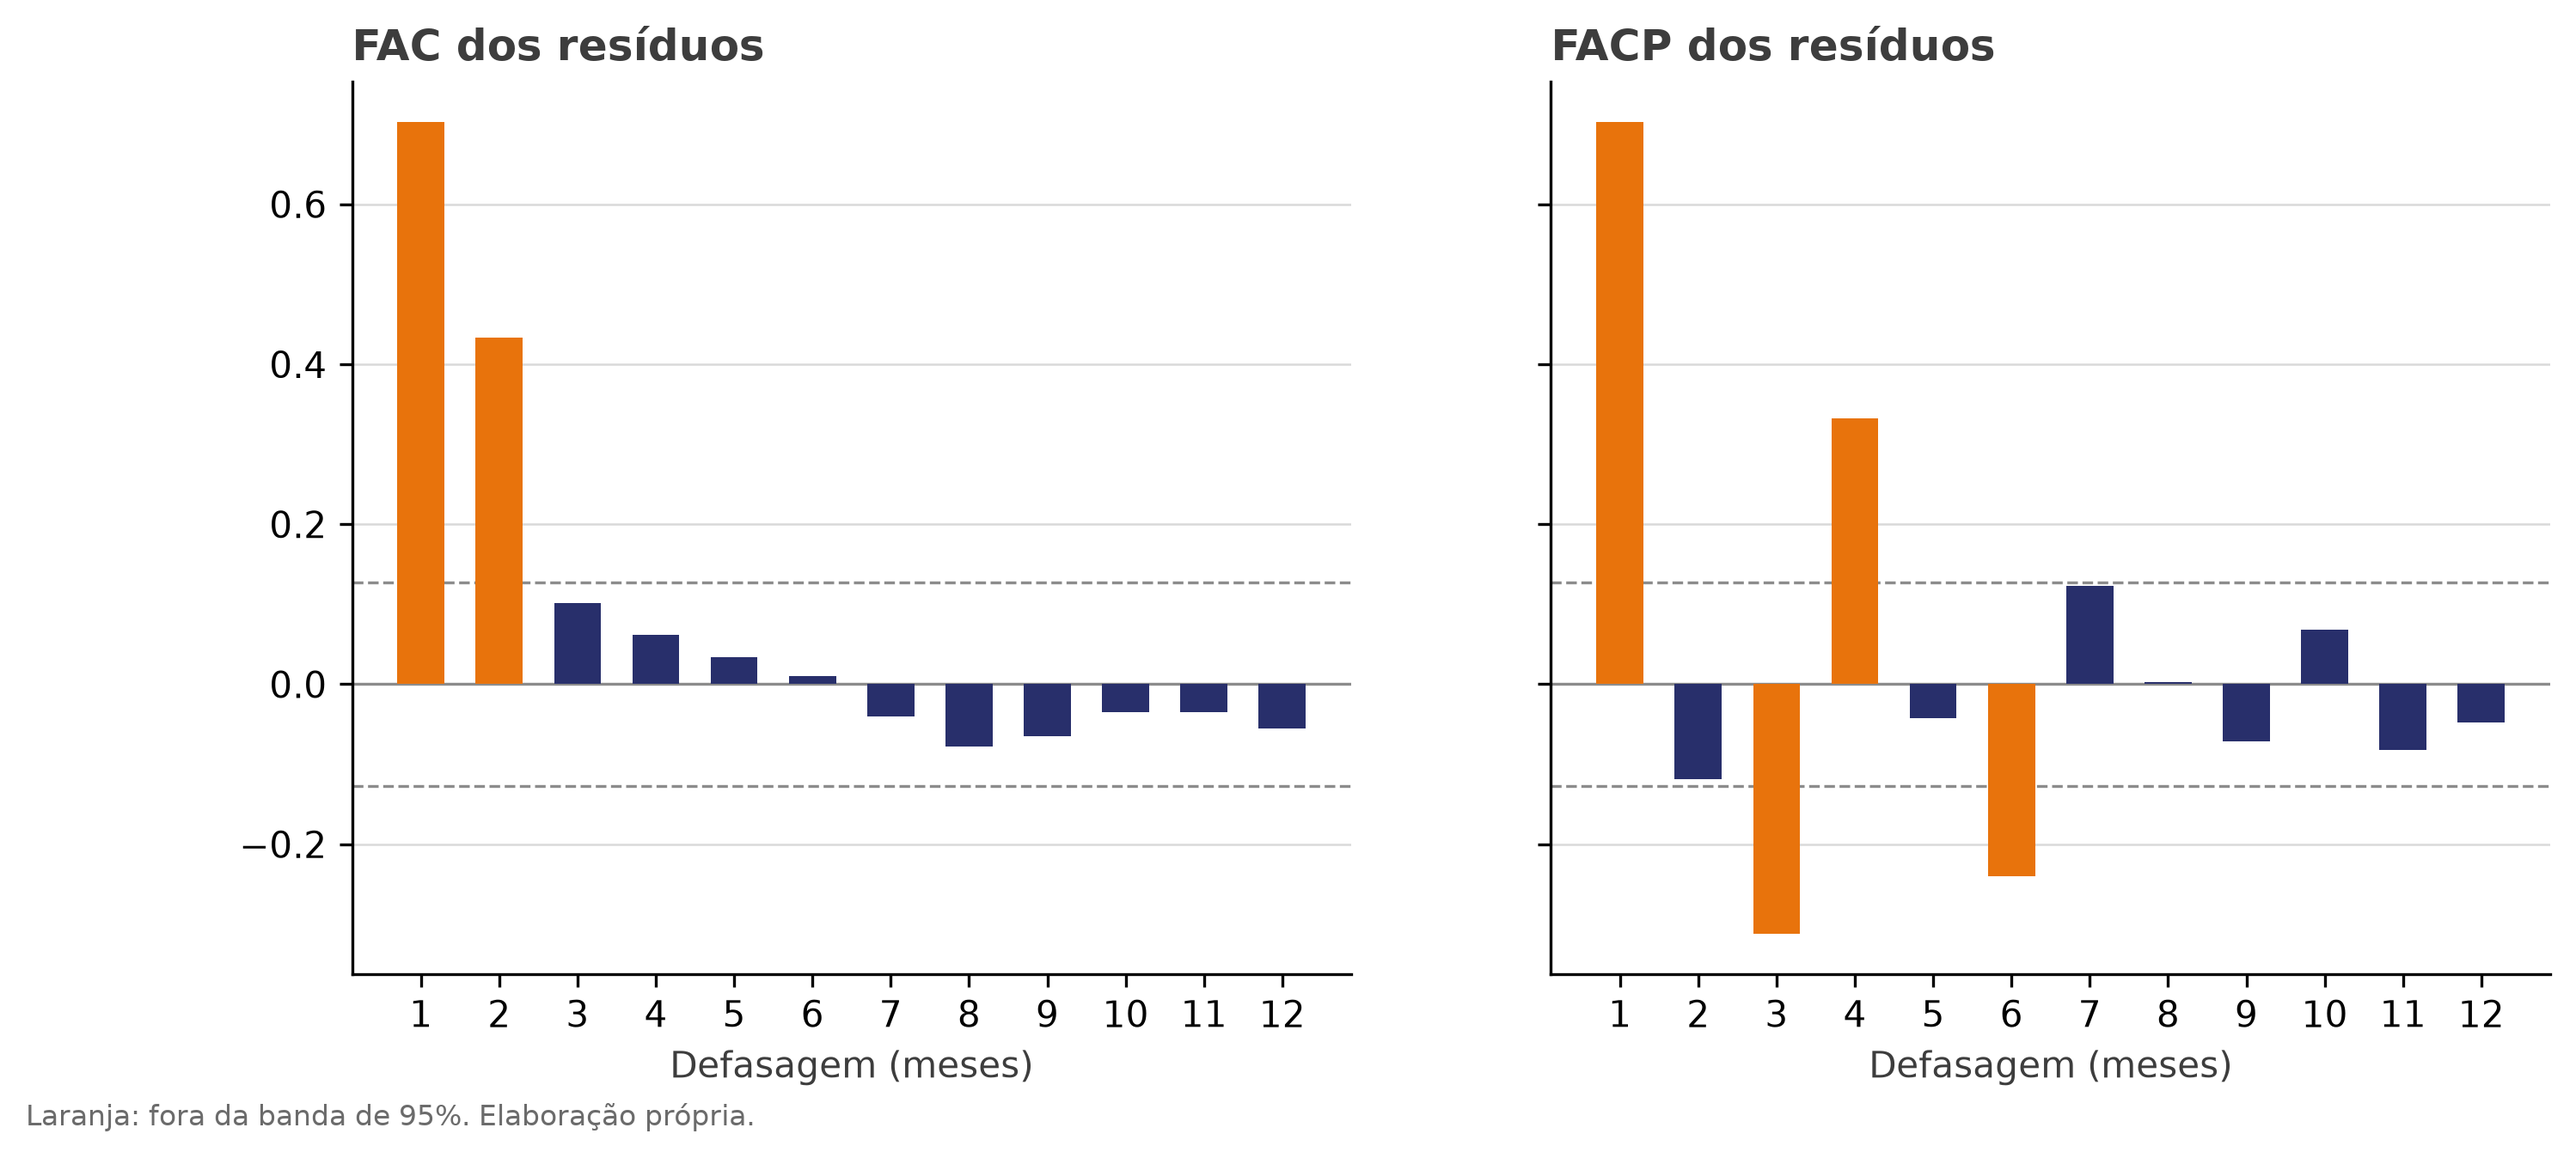
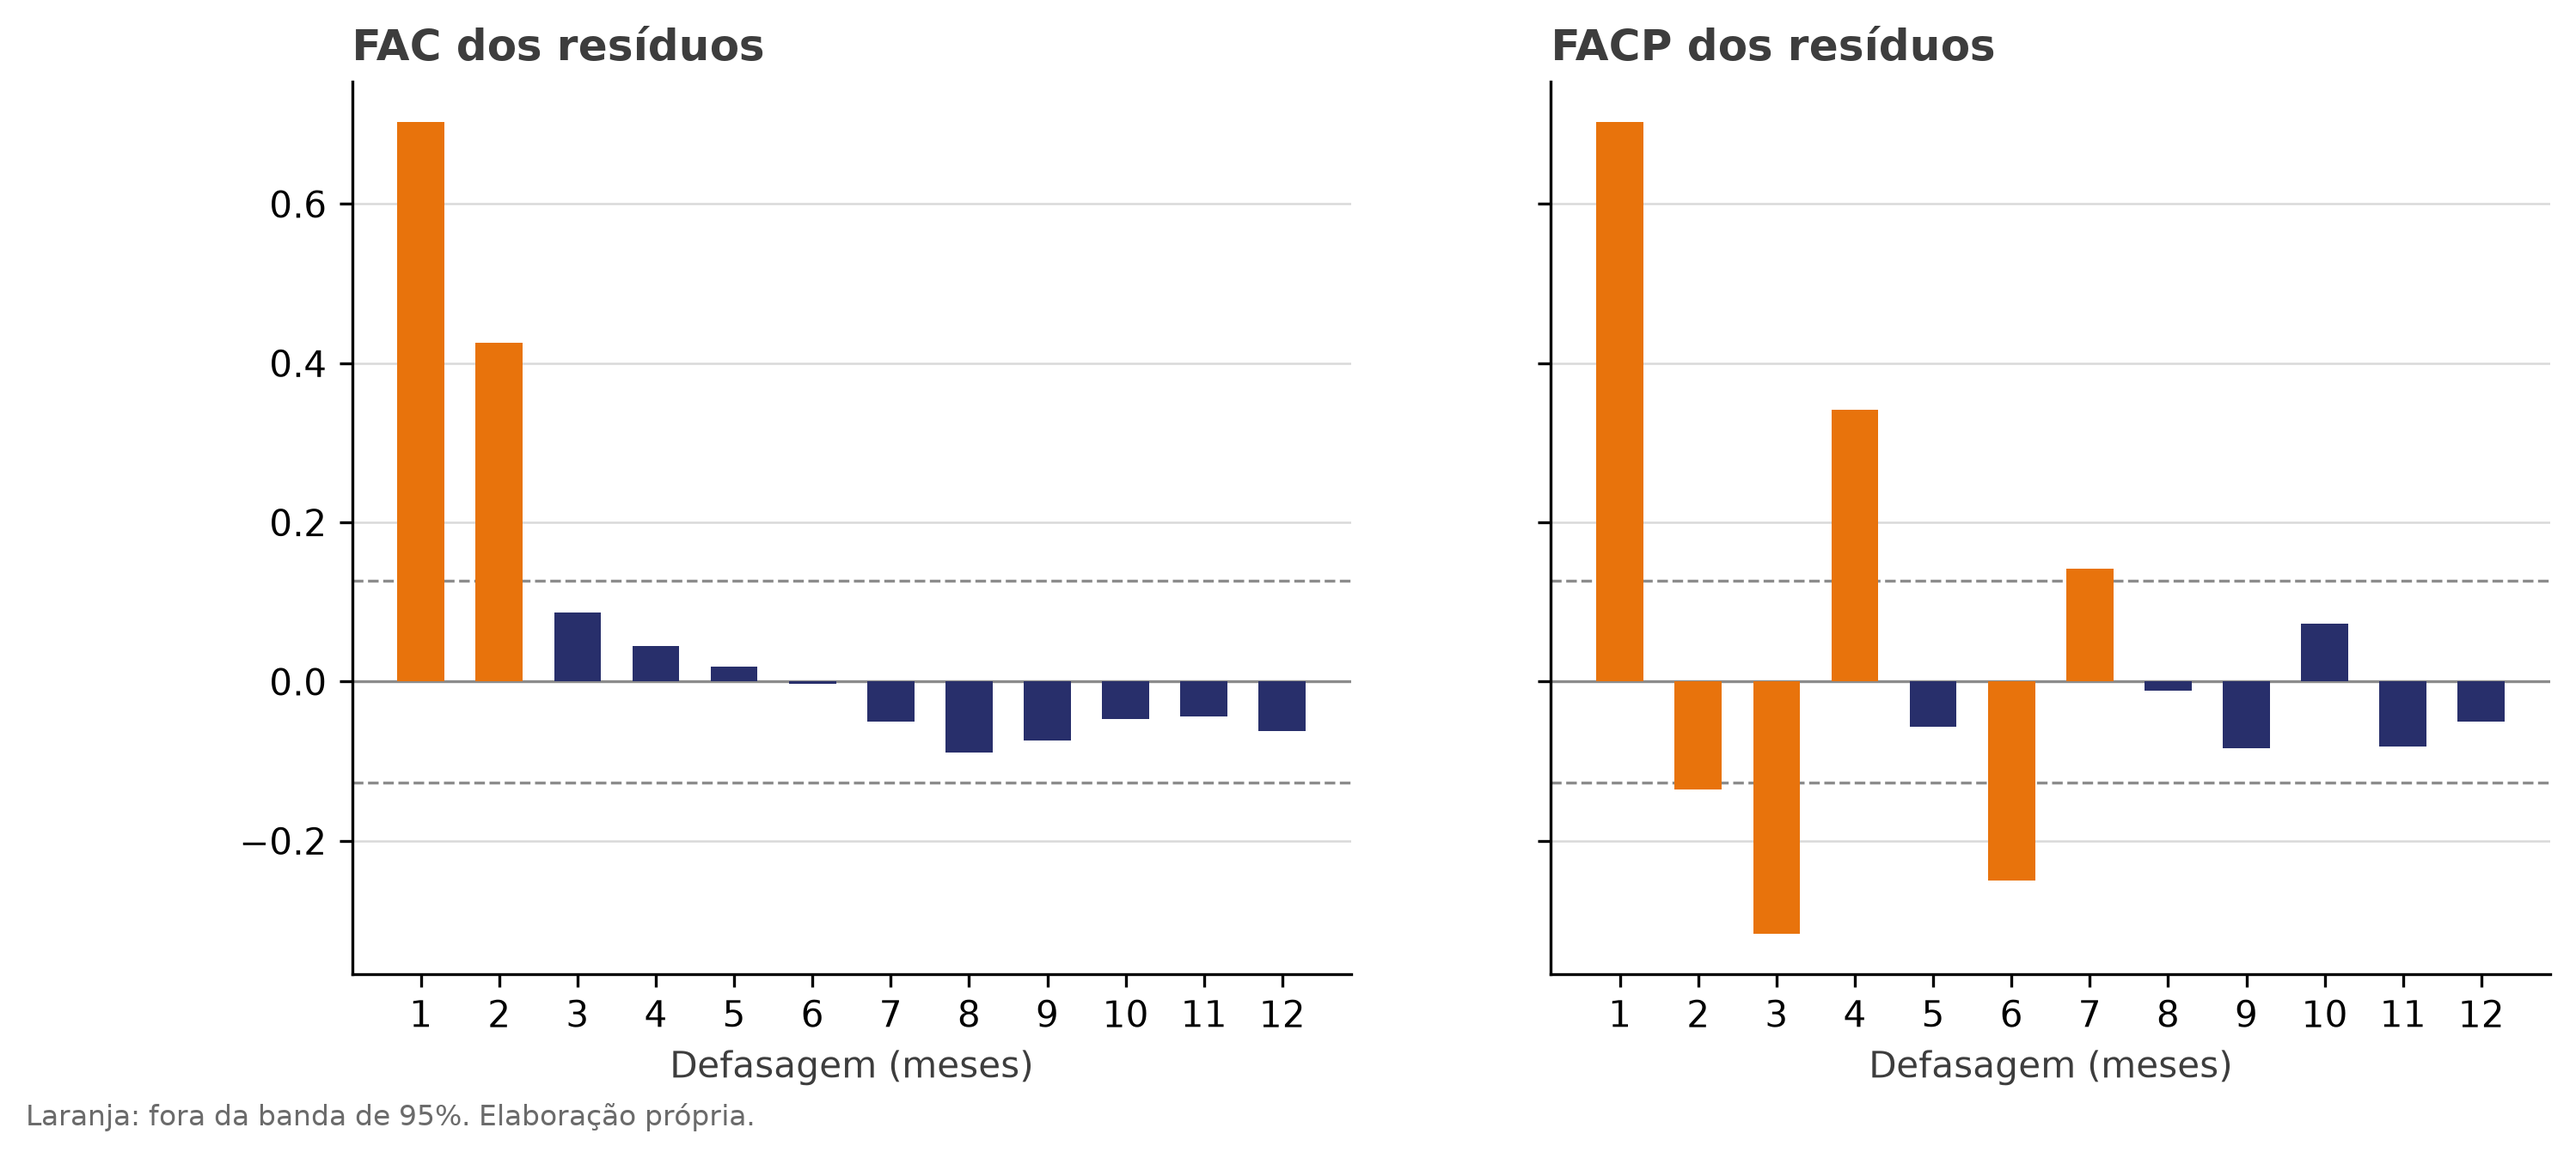
alterando as regressoes

diff --git a/src/incerteza/regressao.py b/src/incerteza/regressao.py
@@ -17,7 +17,7 @@ previsor não viesado do spot" (b = 1), β2 = 0.
 Cuidados de estimação (um por função):
 
     1. Estacionariedade (ADF com BIC, KPSS de conferência)  -> testes_estacionariedade
-       Variável com raiz unitária entra diferenciada.
+       A incerteza com raiz unitária entra diferenciada. O fd fica sempre em nível.
     2. Exogeneidade fraca: E[ε_t | U_t, U_t-1, ...] = 0, mas NÃO a estrita
        (choques cambiais futuros mexem na incerteza futura).
                                                          -> regressao_cambio_incerteza
@@ -120,7 +120,8 @@ def testes_estacionariedade(d, variaveis=("H", "U", "fd"), nivel=0.05):
             "variavel": v, "descricao": NOMES.get(v, v), "n": int(n),
             "adf_estatistica": est, "adf_p": p, "adf_lags": int(lags),
             "adf_p_com_tendencia": p_ct, "kpss_p": p_kpss,
-            "decisao": "raiz unitária" if p >= nivel else "estacionária",
+            "decisao": ("estacionária" if p < nivel else
+                        "persistente (mantida em nível)" if v == "fd" else "raiz unitária"),
         })
     return pd.DataFrame(linhas).set_index("variavel")
 
@@ -175,7 +176,11 @@ def _amostra_principal(base, ate, nivel):
     """Prepara a amostra, roda o ADF e diferencia o que tiver raiz unitária."""
     d0 = preparar(base, ate)
     adf = testes_estacionariedade(d0, nivel=nivel)
-    diferenciar = [v for v in ("U", "fd") if adf.loc[v, "decisao"] == "raiz unitária"]
+    # O fd NUNCA é diferenciado automaticamente: H = (s_t+3 - s_t) - fd_t, com H e a variação
+    # de 3 meses do câmbio estacionárias, logo fd = (s_t+3 - s_t) - H também é. O ADF falha
+    # no fd por baixo poder (ele é muito persistente: é o diferencial de juros) e, diferenciado,
+    # o coeficiente deixa de ser o b - 1 de Fama.
+    diferenciar = [v for v in ("U",) if adf.loc[v, "decisao"] == "raiz unitária"]
     d = preparar(base, ate, diferenciar) if diferenciar else d0
     return d, diferenciar, adf
 
@@ -332,7 +337,8 @@ def sensibilidade_lags(d, lags=LAGS_SENSIBILIDADE):
 def texto_conclusao(tabela, diferenciar=()):
     """Frases em português sobre o modelo principal (sem interpretar causalidade)."""
     p = tabela.loc[[i for i in tabela.index if "PRINCIPAL" in i][0]]
-    unidade = "ponto de incerteza" if not diferenciar else "ponto de variação mensal da incerteza"
+    unidade = ("ponto de variação mensal da incerteza" if "U" in diferenciar
+               else "ponto de incerteza")
     efeito = 100 * p["beta1"] * p["dp_incerteza"]
     rejeita = p["beta1_p"] < 0.05
     frases = [
@@ -345,9 +351,14 @@ def texto_conclusao(tabela, diferenciar=()):
          if rejeita else
          "Não rejeita H0: β1 = 0 a 5%: sem evidência de que a incerteza preveja o resultado do hedge."),
         f"Controle de Fama: β2 = {p['beta2']:+.3f} (p = {p['beta2_p']:.3f}); "
-        f"b implícito = {p['b_fama']:.3f} "
-        f"({'b < 1: compatível com o forward premium puzzle' if p['b_fama'] < 1 else 'b >= 1'}), "
-        f"p-valor de H0: b = 1 igual ao de β2.",
+        f"b implícito = {p['b_fama']:.3f} (IC 95%: [{p['b_fama'] - 1.96 * p['beta2_ep']:.2f}; "
+        f"{p['b_fama'] + 1.96 * p['beta2_ep']:.2f}]): " + (
+            "rejeita b = 1 com b < 1, compatível com o forward premium puzzle."
+            if p["beta2_p"] < 0.05 and p["b_fama"] < 1 else
+            "rejeita b = 1 com b > 1."
+            if p["beta2_p"] < 0.05 else
+            "não rejeita b = 1, mas o intervalo é largo: isso é falta de informação, "
+            "não evidência de que o futuro seja um previsor não viesado."),
     ]
     return "\n".join(frases)
 

diff --git a/tests/test_regressao.py b/tests/test_regressao.py
@@ -22,7 +22,7 @@ from incerteza import base_hedge, regressao  # noqa: E402
 
 
 def gerar(n=400, gamma=0.0, b=0.4, a=0.0, kappa=3.0, rho_u=0.85, sigma=0.03,
-          raiz_unitaria_u=False, semente=0, so_arrays=False):
+          raiz_unitaria_u=False, rho_fd=0.8, semente=0, so_arrays=False):
     """
     Devolve a base (como a de montar_base) ou, com so_arrays, (H, U, fd).
 
@@ -40,7 +40,7 @@ def gerar(n=400, gamma=0.0, b=0.4, a=0.0, kappa=3.0, rho_u=0.85, sigma=0.03,
     U = 100 + u
     fd = np.zeros(T)
     for t in range(1, T):
-        fd[t] = 0.8 * fd[t - 1] + rng.normal(0, 0.01)   # forward discount persistente
+        fd[t] = rho_fd * fd[t - 1] + rng.normal(0, 0.01)   # forward discount persistente
 
     mu = a + b * fd[:n] + gamma * (U[:n] - U[:n].mean())
     c = np.zeros(T)
@@ -184,3 +184,16 @@ def test_texto_conclusao_roda():
     tab = regressao.estimar(gerar(n=300, gamma=0.003, semente=11))["especificacoes"]
     texto = regressao.texto_conclusao(tab)
     assert "β1" in texto and "b implícito" in texto
+
+
+def test_fd_persistente_nunca_e_diferenciado_e_o_texto_nao_inventa_puzzle():
+    out = regressao.estimar(gerar(n=400, rho_fd=1.0, gamma=0.001, semente=13))
+    assert "fd" not in out["diferenciar"]
+    adf = out["adf"][out["adf"]["amostra"] == "principal"]
+    assert adf.loc["fd", "decisao"] in ("persistente (mantida em nível)", "estacionária")
+    tab = out["especificacoes"]
+    assert (tab["transformacao"] == "níveis").all() or "fd" not in "".join(tab["transformacao"])
+    texto = regressao.texto_conclusao(tab, out["diferenciar"])
+    linha = tab.loc[[i for i in tab.index if "PRINCIPAL" in i][0]]
+    if linha["beta2_p"] >= 0.05:
+        assert "não rejeita b = 1" in texto and "puzzle" not in texto
